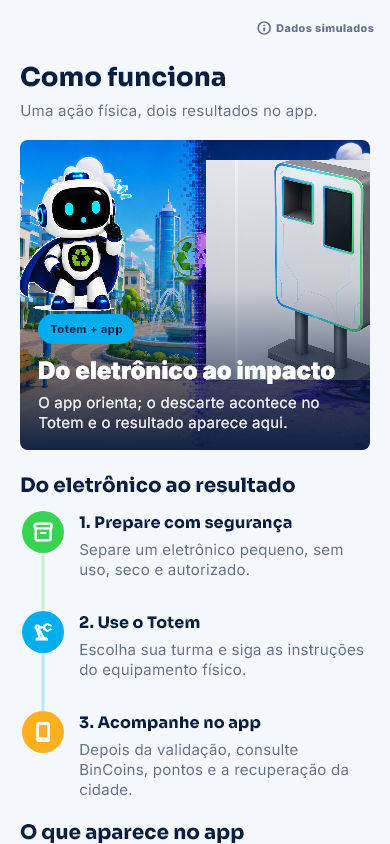
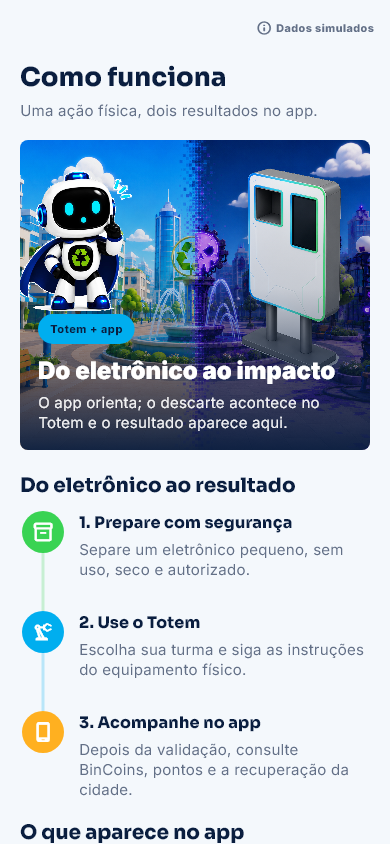
fix(mobile): align final visual details

Changed region(s): [[0.5231, 0.1848, 0.9538, 0.4621]]

diff --git a/Software/mobile/bingo_app/lib/src/screens/shell_screen.dart b/Software/mobile/bingo_app/lib/src/screens/shell_screen.dart
@@ -1,3 +1,5 @@
+import 'dart:ui';
+
 import 'package:flutter/material.dart';
 
 import '../data/demo_data.dart';
@@ -251,10 +253,6 @@ class _WalletScreenState extends State<WalletScreen> {
     final redeemableRewards = rewards
         .where((reward) => reward.available)
         .length;
-    final sectionTone = _section == WalletSection.transactions
-        ? AppColors.green
-        : AppColors.blue;
-
     return AppPage(
       title: 'Carteira',
       subtitle: 'Seu saldo e o histórico do ecossistema.',
@@ -301,50 +299,9 @@ class _WalletScreenState extends State<WalletScreen> {
             onPressed: () => _push(context, const RewardsScreen()),
           ),
           const SizedBox(height: 18),
-          SizedBox(
-            width: double.infinity,
-            child: MediaQuery.withClampedTextScaling(
-              maxScaleFactor: 1.25,
-              child: SegmentedButton<WalletSection>(
-                style: ButtonStyle(
-                  backgroundColor: WidgetStateProperty.resolveWith((states) {
-                    return states.contains(WidgetState.selected)
-                        ? sectionTone.withValues(alpha: 0.14)
-                        : Colors.transparent;
-                  }),
-                  foregroundColor: WidgetStateProperty.resolveWith((states) {
-                    return states.contains(WidgetState.selected)
-                        ? sectionTone
-                        : AppColors.navy;
-                  }),
-                  side: WidgetStateProperty.resolveWith((states) {
-                    return BorderSide(
-                      color: states.contains(WidgetState.selected)
-                          ? sectionTone
-                          : AppColors.line,
-                      width: states.contains(WidgetState.selected) ? 1.6 : 1,
-                    );
-                  }),
-                ),
-                segments: const [
-                  ButtonSegment(
-                    value: WalletSection.transactions,
-                    label: Text('Extrato', maxLines: 1, softWrap: false),
-                    icon: Icon(Icons.swap_vert_rounded),
-                  ),
-                  ButtonSegment(
-                    value: WalletSection.discards,
-                    label: Text('Descartes', maxLines: 1, softWrap: false),
-                    icon: Icon(Icons.recycling_rounded),
-                  ),
-                ],
-                selected: {_section},
-                showSelectedIcon: false,
-                onSelectionChanged: (selection) {
-                  setState(() => _section = selection.single);
-                },
-              ),
-            ),
+          _WalletSectionSelector(
+            value: _section,
+            onChanged: (value) => setState(() => _section = value),
           ),
           const SizedBox(height: 14),
           if (widget.isLoading)
@@ -376,6 +333,155 @@ class _WalletScreenState extends State<WalletScreen> {
             for (final discard in widget.discards)
               _DiscardHistoryTile(discard: discard),
         ],
+      ),
+    );
+  }
+}
+
+class _WalletSectionSelector extends StatelessWidget {
+  const _WalletSectionSelector({required this.value, required this.onChanged});
+
+  final WalletSection value;
+  final ValueChanged<WalletSection> onChanged;
+
+  @override
+  Widget build(BuildContext context) {
+    final reduceMotion = MediaQuery.disableAnimationsOf(context);
+    final tone = value == WalletSection.transactions
+        ? AppColors.green
+        : AppColors.blue;
+    final duration = reduceMotion
+        ? Duration.zero
+        : const Duration(milliseconds: AppMotion.standard);
+
+    return MediaQuery.withClampedTextScaling(
+      maxScaleFactor: 1.25,
+      child: LayoutBuilder(
+        builder: (context, constraints) {
+          final segmentWidth = constraints.maxWidth / 2;
+          return Container(
+            height: 46,
+            clipBehavior: Clip.antiAlias,
+            decoration: BoxDecoration(
+              color: Colors.white,
+              borderRadius: BorderRadius.circular(8),
+              border: Border.all(color: AppColors.line),
+            ),
+            child: Stack(
+              children: [
+                AnimatedPositioned(
+                  duration: duration,
+                  curve: Curves.easeOutCubic,
+                  top: 2,
+                  bottom: 2,
+                  left: value == WalletSection.transactions ? 2 : segmentWidth,
+                  width: segmentWidth - 2,
+                  child: AnimatedContainer(
+                    duration: duration,
+                    curve: Curves.easeOutCubic,
+                    decoration: BoxDecoration(
+                      color: tone.withValues(alpha: 0.11),
+                      borderRadius: BorderRadius.circular(6),
+                    ),
+                    child: Align(
+                      alignment: Alignment.bottomCenter,
+                      child: Container(
+                        height: 3,
+                        margin: const EdgeInsets.symmetric(horizontal: 18),
+                        decoration: BoxDecoration(
+                          color: tone,
+                          borderRadius: BorderRadius.circular(99),
+                        ),
+                      ),
+                    ),
+                  ),
+                ),
+                Center(
+                  child: Container(width: 1, height: 24, color: AppColors.line),
+                ),
+                Row(
+                  children: [
+                    Expanded(
+                      child: _WalletSectionTab(
+                        key: const ValueKey('wallet-tab-extrato'),
+                        label: 'Extrato',
+                        icon: Icons.swap_vert_rounded,
+                        color: value == WalletSection.transactions
+                            ? AppColors.green
+                            : AppColors.navy,
+                        selected: value == WalletSection.transactions,
+                        onTap: () => onChanged(WalletSection.transactions),
+                      ),
+                    ),
+                    Expanded(
+                      child: _WalletSectionTab(
+                        key: const ValueKey('wallet-tab-descartes'),
+                        label: 'Descartes',
+                        icon: Icons.recycling_rounded,
+                        color: value == WalletSection.discards
+                            ? AppColors.blue
+                            : AppColors.navy,
+                        selected: value == WalletSection.discards,
+                        onTap: () => onChanged(WalletSection.discards),
+                      ),
+                    ),
+                  ],
+                ),
+              ],
+            ),
+          );
+        },
+      ),
+    );
+  }
+}
+
+class _WalletSectionTab extends StatelessWidget {
+  const _WalletSectionTab({
+    required this.label,
+    required this.icon,
+    required this.color,
+    required this.selected,
+    required this.onTap,
+    super.key,
+  });
+
+  final String label;
+  final IconData icon;
+  final Color color;
+  final bool selected;
+  final VoidCallback onTap;
+
+  @override
+  Widget build(BuildContext context) {
+    return Semantics(
+      button: true,
+      selected: selected,
+      label: label,
+      child: Material(
+        color: Colors.transparent,
+        child: InkWell(
+          onTap: onTap,
+          child: Row(
+            mainAxisAlignment: MainAxisAlignment.center,
+            children: [
+              Icon(icon, color: color, size: 19),
+              const SizedBox(width: 6),
+              Flexible(
+                child: Text(
+                  label,
+                  maxLines: 1,
+                  softWrap: false,
+                  overflow: TextOverflow.fade,
+                  style: Theme.of(context).textTheme.labelLarge?.copyWith(
+                    color: color,
+                    fontWeight: selected ? FontWeight.w900 : FontWeight.w700,
+                  ),
+                ),
+              ),
+            ],
+          ),
+        ),
       ),
     );
   }
@@ -922,6 +1028,41 @@ class _RewardTile extends StatelessWidget {
   }
 }
 
+class _TotemSceneCutout extends StatelessWidget {
+  const _TotemSceneCutout();
+
+  @override
+  Widget build(BuildContext context) {
+    return Stack(
+      fit: StackFit.expand,
+      children: [
+        Transform.translate(
+          offset: const Offset(0, 7),
+          child: ImageFiltered(
+            imageFilter: ImageFilter.blur(sigmaX: 7, sigmaY: 7),
+            child: ColorFiltered(
+              colorFilter: ColorFilter.mode(
+                AppColors.navy.withValues(alpha: 0.26),
+                BlendMode.srcIn,
+              ),
+              child: Image.asset(
+                AppAssets.totemSingleCutout,
+                fit: BoxFit.contain,
+                filterQuality: FilterQuality.high,
+              ),
+            ),
+          ),
+        ),
+        Image.asset(
+          AppAssets.totemSingleCutout,
+          fit: BoxFit.contain,
+          filterQuality: FilterQuality.high,
+        ),
+      ],
+    );
+  }
+}
+
 class _HowItWorksHero extends StatelessWidget {
   const _HowItWorksHero();
 
@@ -948,22 +1089,11 @@ class _HowItWorksHero extends StatelessWidget {
                   ),
                 ),
                 Positioned(
-                  top: 20,
-                  right: -46,
-                  width: 210,
-                  height: 220,
-                  child: ClipRect(
-                    child: Transform.scale(
-                      scale: 1.72,
-                      alignment: Alignment.centerRight,
-                      child: Image.asset(
-                        AppAssets.totemConceptFull,
-                        fit: BoxFit.contain,
-                        alignment: Alignment.centerRight,
-                        filterQuality: FilterQuality.high,
-                      ),
-                    ),
-                  ),
+                  top: 8,
+                  right: -18,
+                  width: 190,
+                  height: 238,
+                  child: _TotemSceneCutout(),
                 ),
                 Positioned.fill(
                   child: DecoratedBox(

diff --git a/Software/mobile/bingo_app/test/widget_test.dart b/Software/mobile/bingo_app/test/widget_test.dart
@@ -319,9 +319,57 @@ void main() {
         ),
         findsNWidgets(4),
       );
+      expect(
+        tester
+            .widget<Text>(
+              find.descendant(
+                of: find.byKey(const ValueKey('wallet-tab-extrato')),
+                matching: find.text('Extrato'),
+              ),
+            )
+            .style
+            ?.color,
+        AppColors.green,
+      );
+      expect(
+        tester
+            .widget<Text>(
+              find.descendant(
+                of: find.byKey(const ValueKey('wallet-tab-descartes')),
+                matching: find.text('Descartes'),
+              ),
+            )
+            .style
+            ?.color,
+        AppColors.navy,
+      );
 
       await tester.tap(find.text('Descartes'));
       await tester.pumpAndSettle();
+      expect(
+        tester
+            .widget<Text>(
+              find.descendant(
+                of: find.byKey(const ValueKey('wallet-tab-extrato')),
+                matching: find.text('Extrato'),
+              ),
+            )
+            .style
+            ?.color,
+        AppColors.navy,
+      );
+      expect(
+        tester
+            .widget<Text>(
+              find.descendant(
+                of: find.byKey(const ValueKey('wallet-tab-descartes')),
+                matching: find.text('Descartes'),
+              ),
+            )
+            .style
+            ?.color,
+        AppColors.blue,
+      );
       expect(find.text('Mouse sem uso'), findsOneWidget);
       expect(find.text('Cabo USB'), findsOneWidget);
       expect(find.text('Fone de ouvido'), findsOneWidget);

diff --git a/Software/mobile/bingo_app/lib/src/theme/app_assets.dart b/Software/mobile/bingo_app/lib/src/theme/app_assets.dart
@@ -2,6 +2,7 @@ class AppAssets {
   static const logoOfficial = 'assets/images/logo_official.png';
   static const logoOfficialTransparent =
       'assets/images/logo_official_transparent.png';
+  static const logoOfficialTrimmed = 'assets/images/logo_official_trimmed.png';
   static const b1nPose = 'assets/images/b1n_pose_transparent.png';
   static const b1nIcon = 'assets/images/b1n_icon.png';
   static const b3nTioB1n = 'assets/images/b3n_tio_b1n_transparent.png';
@@ -30,4 +31,5 @@ class AppAssets {
   static const sceneTransition = 'assets/images/Praça Central - Transição.png';
   static const totemConcept = 'assets/images/totem_concept_transparent.png';
   static const totemConceptFull = 'assets/images/totem_concept.png';
+  static const totemSingleCutout = 'assets/images/totem_single_cutout.png';
 }

diff --git a/Software/mobile/bingo_app/lib/src/screens/onboarding_screen.dart b/Software/mobile/bingo_app/lib/src/screens/onboarding_screen.dart
@@ -57,10 +57,10 @@ class OnboardingScreen extends StatelessWidget {
                               vertical: 12,
                             ),
                             child: SizedBox(
-                              width: 248,
-                              height: 58,
+                              width: 230,
+                              height: 64,
                               child: Image.asset(
-                                AppAssets.logoOfficialTransparent,
+                                AppAssets.logoOfficialTrimmed,
                                 fit: BoxFit.contain,
                                 color: Colors.white,
                                 colorBlendMode: BlendMode.srcIn,

diff --git a/Software/mobile/bingo_app/test/app_v1_evidence_test.dart b/Software/mobile/bingo_app/test/app_v1_evidence_test.dart
@@ -77,6 +77,7 @@ void main() {
             Image.asset(AppAssets.sceneTransition),
             Image.asset(AppAssets.sceneConfrontation),
             Image.asset(AppAssets.totemConceptFull),
+            Image.asset(AppAssets.totemSingleCutout),
           ],
         ),
       ),
